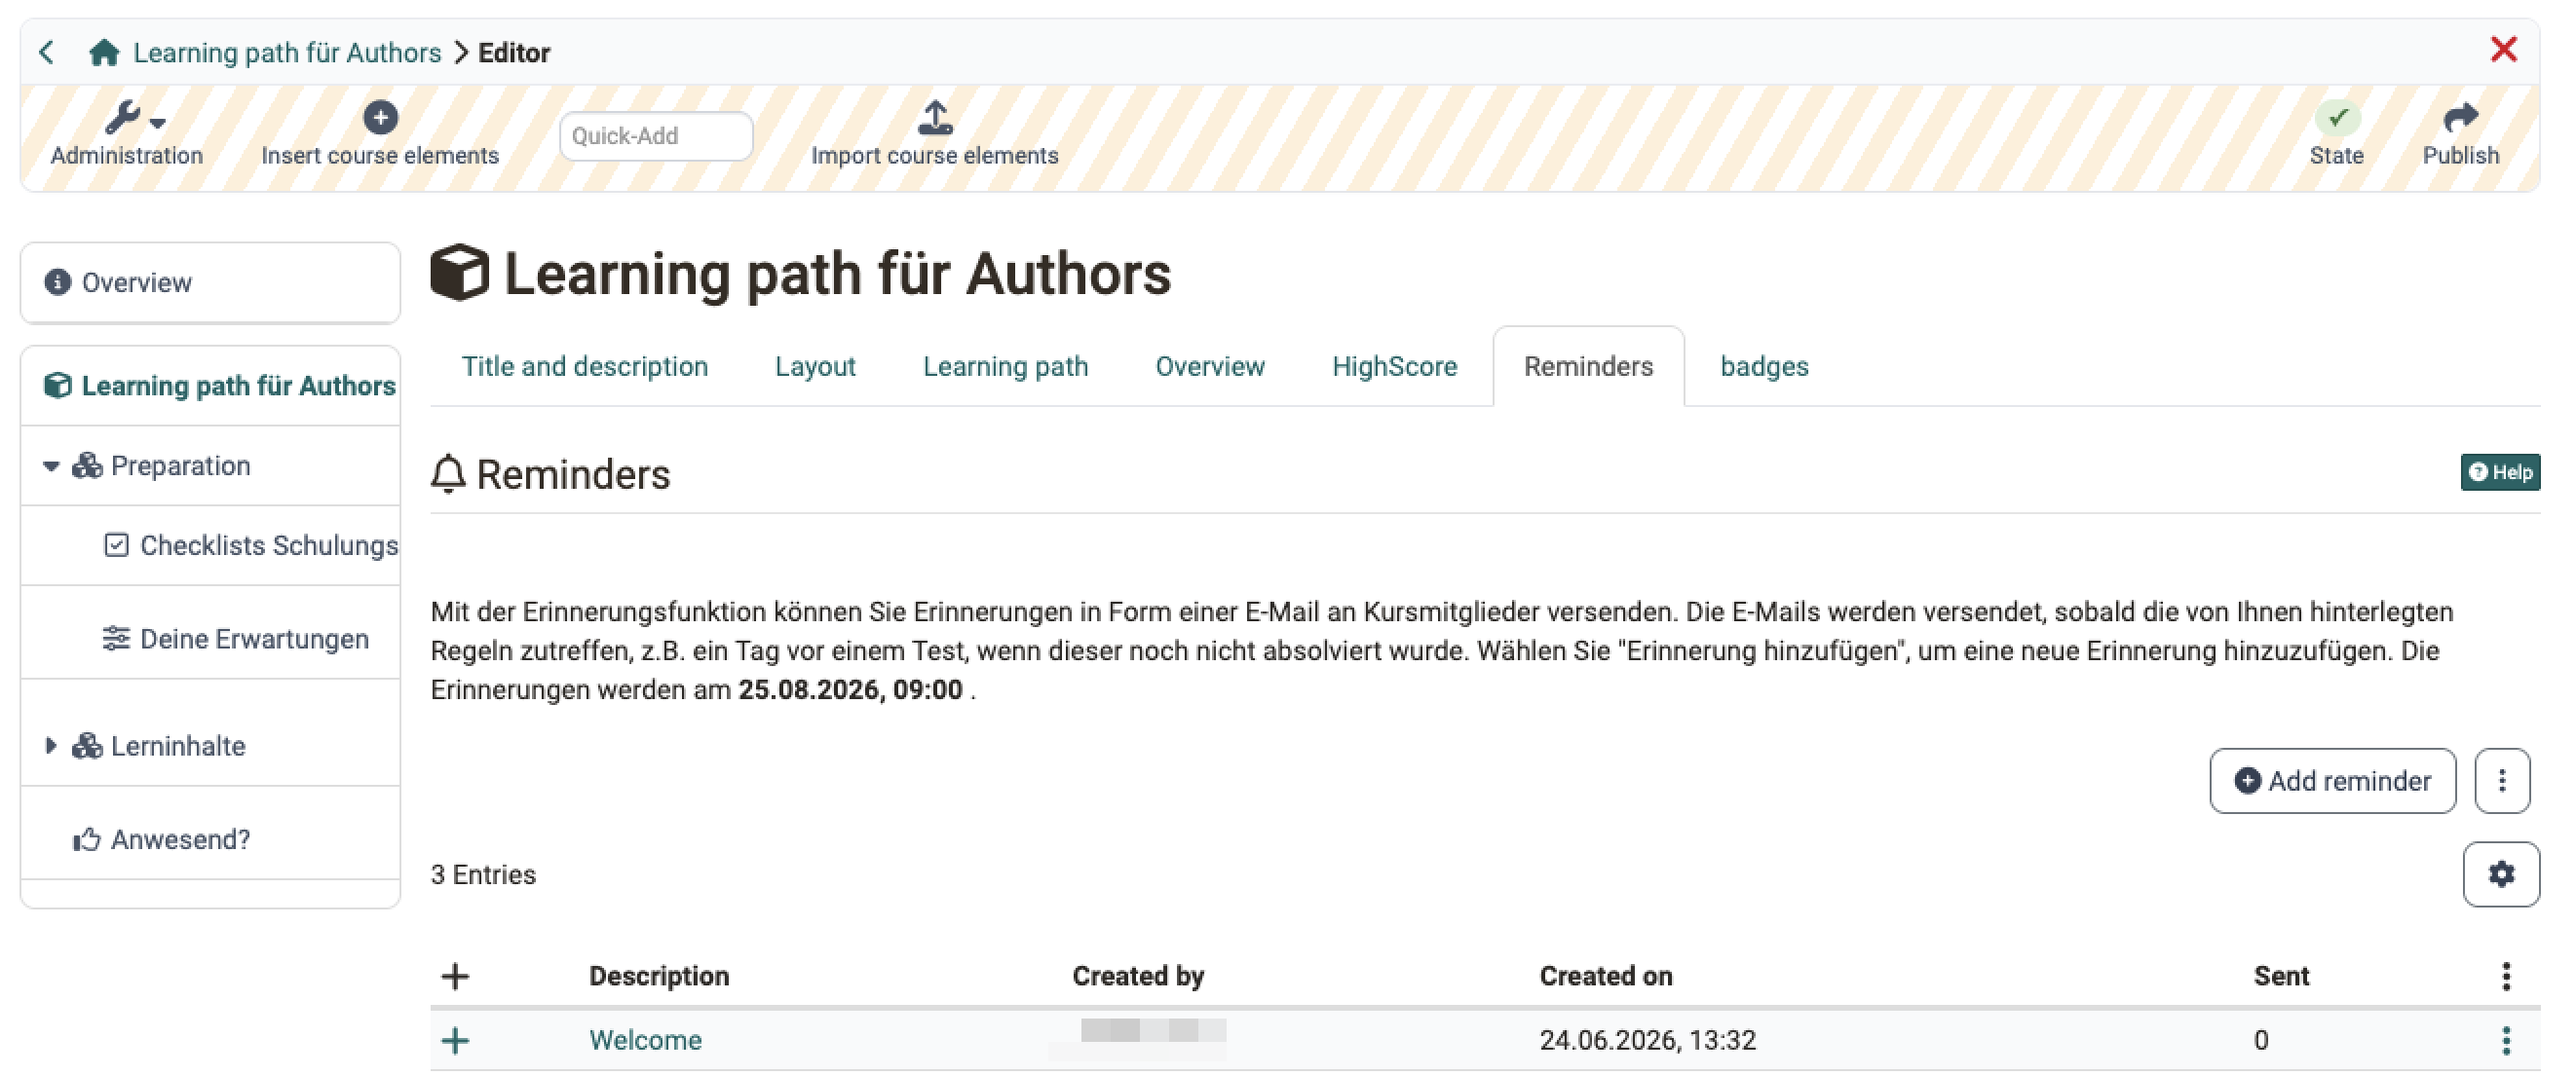
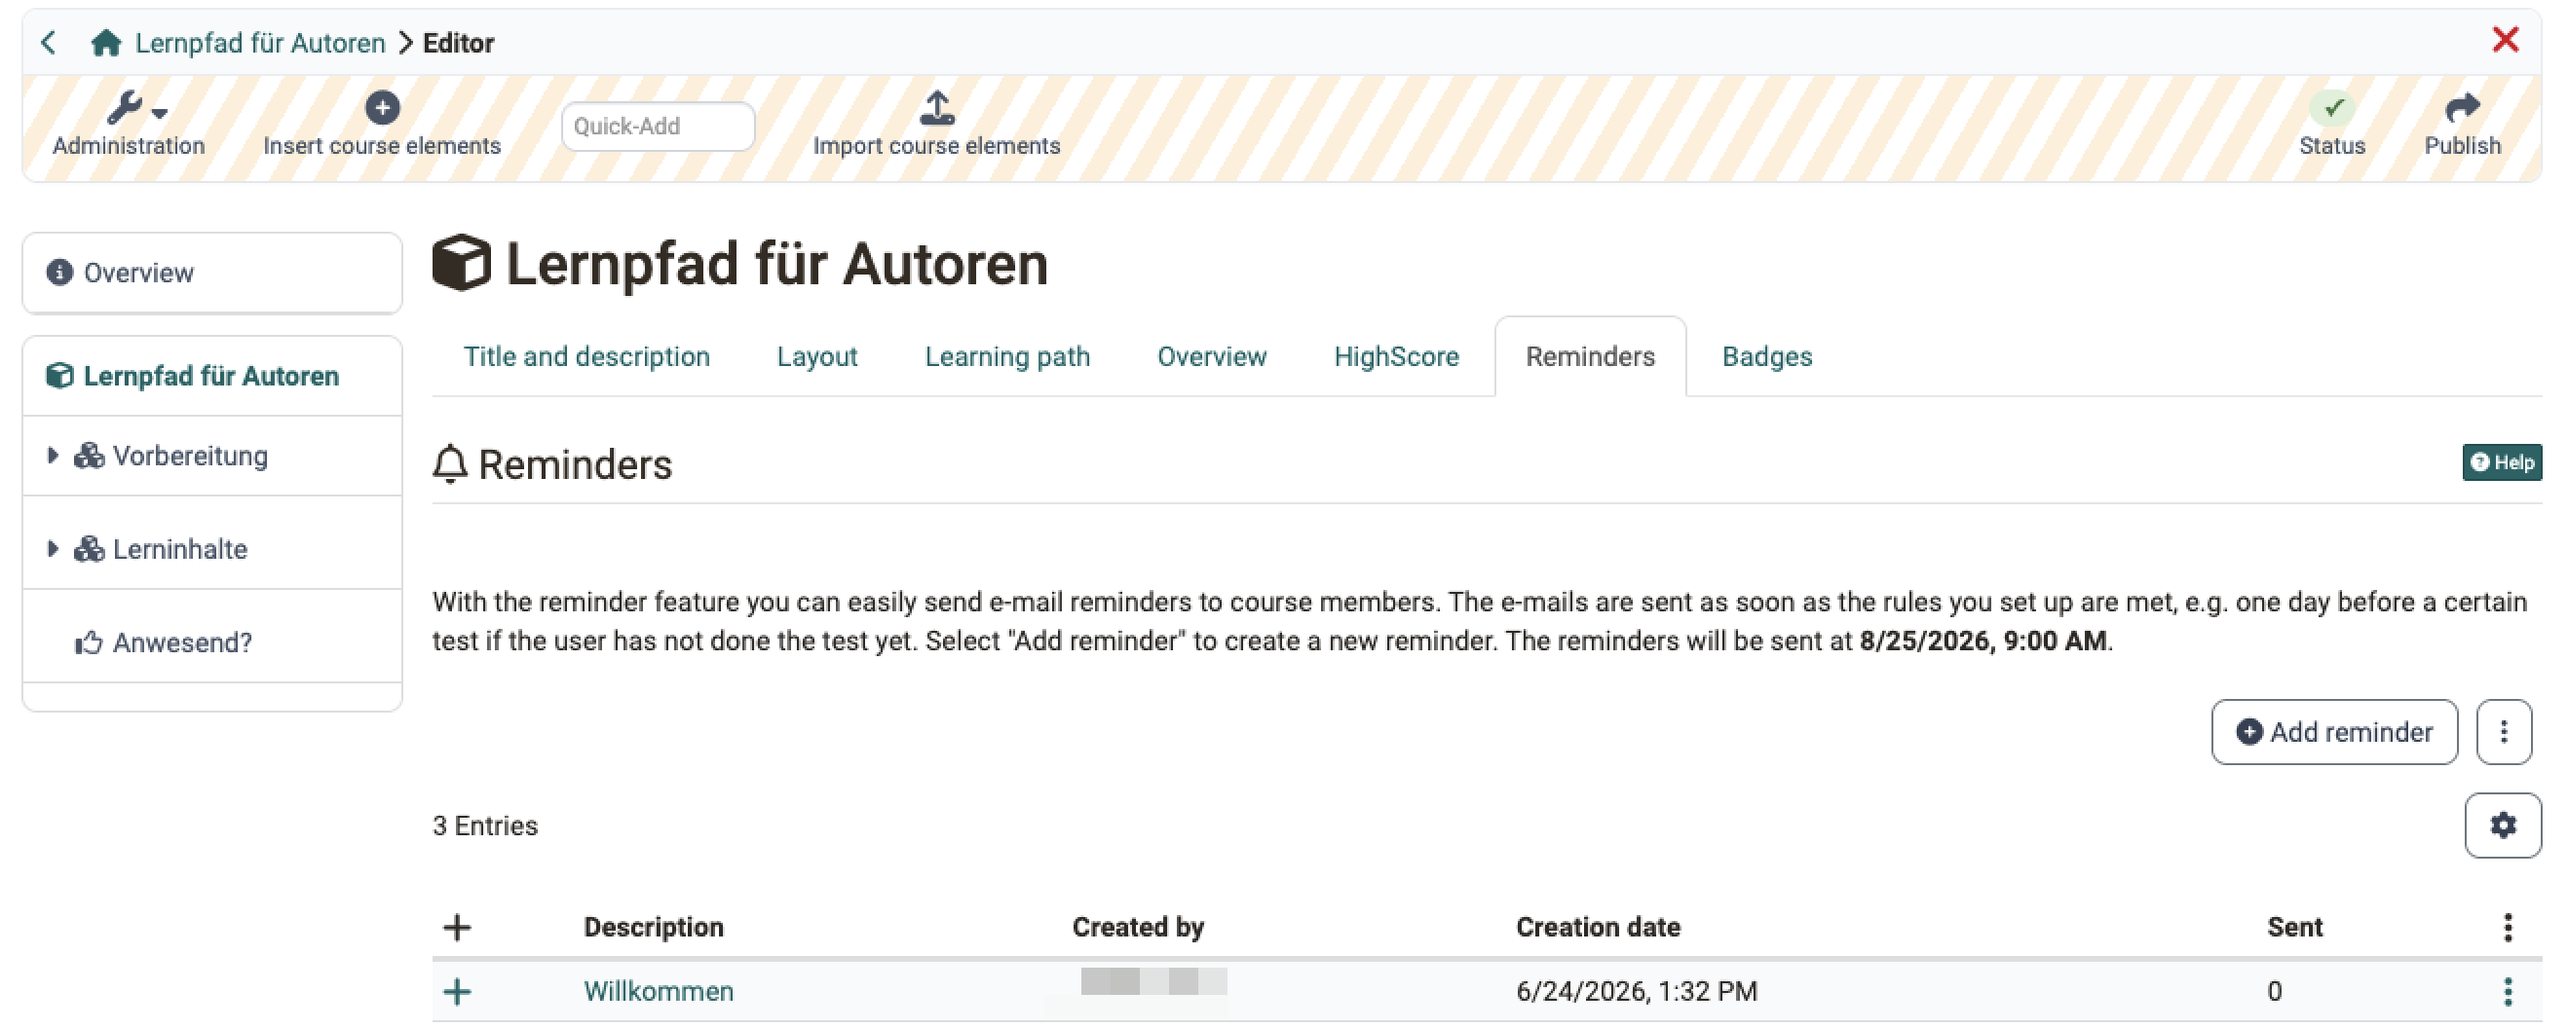
OODOC-533 (EN), Strukturbaustein-Seite nachgezogen.

diff --git a/sites/manual_user/docs/learningresources/Course_Element_Structure.md b/sites/manual_user/docs/learningresources/Course_Element_Structure.md
@@ -1,6 +1,6 @@
 # Course Element "Structure" {: #course_element_structure}
 
-## Profile {: #profile}
+## Profile
 
 Name | Structure
 ---------|----------
@@ -15,21 +15,36 @@ Use this course element to organize and structure your course elements and/or to
 
 The course element Structure offers, among other things, an automatic overview of course elements subordinate to it with their short titles, titles and descriptions. The automatic overview is also linked to an automatically generated performance overview with points, status and link to the performance record, provided these have been activated for the course element or the course in general. 
 
-![Leistungsübersicht Strukturbaustein für Teilnehmende in Lernpfadkursen](assets/Leistungsuebersicht_Struktur_Lernpfad1.png)
+The settings of the course element are made by the owners of the course in the course editor: `Course > Administration > Course editor`. Coaches only reach the course editor if they have been granted the "Course editor" right in the course.
 
-The concrete setting options depend on whether the course element is used in conventional or in learning path courses.
+![Performance overview with the score achieved and a link to the evidence of achievement, below it the content overview with the status of each subordinate course element. Automatic overview of a structure element in a learning path course, participant view.](assets/Leistungsuebersicht_Struktur_Lernpfad1.png){ class="shadow lightbox" }
 
- **Tabs in learning path courses**
+### The chosen course format
 
- **![structure tab learnign path courses](assets/structure_tabs_lpc_en.png)**
+!!! tip "Learning path or not?"
 
- **Tabs in conventional courses**
+    The concrete setting options depend on whether the course element is used in conventional or in learning path courses. The tab bar of the course element tells you which course format you are looking at: A tab "Learning path" identifies the course as a learning path course, the tabs "Visibility", "Access" and "Score" identify it as a conventional course. Here the tabs in comparison:
 
- **![structure tab conventional courses](assets/sturcture_tabs_cc_en.png)**
+**Tabs in learning path courses**
 
-For more information on the general tabs "Title and Description", "Layout" and "Visibility" and "Access", see [here](../learningresources/General_Configuration_of_Course_Elements.md)
+![Five tabs are available: Title and description, Layout, Learning path, Overview and HighScore. Tab bar of the course element Structure in the course editor of a learning path course.](assets/structure_tabs_lpc_en.png){ class="shadow lightbox" }
 
-## Tab Overview {: #overview}
+**Tabs in conventional courses**
+
+![Seven tabs are available: Title and description, Layout, Visibility, Access, Overview, Score and HighScore. Tab bar of the course element Structure in the course editor of a conventional course.](assets/structure_tabs_cc_en.png){ class="shadow lightbox" }
+
+A further special case is the topmost entry in the course editor: the course root node. It is a structure element as well, even though it does not look like one: It carries the symbol of the course :o_icon_o_CourseModule_icon: and not the symbol of the structure element :o_icon_o_st_icon:. It therefore has the same tabs as any other structure element, but it is the only one that carries the tab "[Reminders](../learningresources/Course_Reminders.md)". In addition, deleting and moving are **not** possible for the course root node.
+
+![The topmost entry of the course structure carries the symbol of the course, the subordinate structure elements carry the symbol of the structure element. Course root node in the course editor of a learning path course, tab "Reminders" open.](assets/Struktur_Kurshauptknoten_en.png){ class="shadow lightbox" }
+
+In the course editor, the tabs of the structure element appear in this order:
+
+  1. **Title and description** and **Layout**: identical in both course formats, described under [Course elements in the course editor](../learningresources/General_Configuration_of_Course_Elements.md).
+  2. **Learning path** in the learning path course, or **Visibility** and **Access** in the conventional course. On the tab "Learning path" see [Settings in the learning path course](#learning_path_course_settings), on "Visibility" and "Access" the [general description](../learningresources/General_Configuration_of_Course_Elements.md#access) and for the password protection of the structure element the [Tab Access](#access).
+  3. **Overview**, **Score** only in the conventional course, and **HighScore**: the tabs of the structure element itself, described on this page.
+  4. **Reminders** only on the course root node, **Badges** only if the awarding of badges is activated.
+
+#### Tab Overview {: #overview}
 
 The central settings are made in the "Overview" tab.You can choose between four display modes for the course element "Structure" in the tab Overview and thus generate an automatically generated overview, integrate your own HTML page or simply display the first subordinate course element.
 
@@ -38,45 +53,49 @@ The central settings are made in the "Overview" tab.You can choose between four 
 * **Custom HTML page** allows you to create your own information page instead of the automatically generated overview. Therefore, you can select an HTML page from the storage folder, create a new HTML file or import a suitable file. Text, images etc. can then be added in the OpenOlat HTML editor in a similar way to the HTML page course element. In addition, the "Display content" tab appears and further specific settings for HTML pages can be made.  
 * If you select the radio button **«No overview, activate first visible child node»**, the first visible subordinate course element will be displayed instead of an overview. 
 
-!!! info "Info"
+!!! info "Important"
 
     If you have chosen your own HTML page and this contains links to graphics or other files stored in OpenOlat, you must select the option "Allow links in the entire storage folder" under "Security settings". You can also allow coaches to edit the HTML page without access to the course editor.
 
-## Tab Highscore {: #highscore}
+#### Tab HighScore [:octicons-tag-16:{ title="from Release 11.3 (OO-2133)" }](https://track.frentix.com/issue/OO-2133) {: #highscore}
 
 Here you can activate and configure the high score display. You can display a congratulation title, a winner's podium, a histogram as well as a highscore list. An anonymized representation is also possible here.
 
-Auch hier ist eine anonymisierte Darstellung möglich. It also contains the tab "[Reminders](../learningresources/Course_Reminders.md)" and can neither be deleted nor moved.
+#### Tab Badges {: #badges}
 
-
-## Tab Badges {: #badges}
-
-If the course owner has activated the assignment of badges under **Administration > Settings > Assessment tab > Badges section**, the "Badges" tab is displayed in the course editor for this course element and a specific badge can be created for this course element.
+If the owner of the course has activated the awarding of badges under `Course > Administration > Settings > Assessment` in the section **Badges**, the "Badges" tab is displayed in the course editor for this course element and a specific badge can be created for this course element.
 
 [To the top of the page ^](#course_element_structure)
 
 ---
 
-## Special settings of the course element structure depending on the course type
+## Settings by course format
 
+All tabs described so far behave identically in both course formats. The differences concern only a few tabs: In the learning path course, the standard case, the tab "Learning path" is added. In the conventional course, the tabs "Visibility", "Access" and "Score" are added instead.
 
-### Settings for learning path courses {: #learning_path_course_settings}
+### Settings in the learning path course {: #learning_path_course_settings}
 
-The settings in the tab "Learning path" basically differ from the settings in other course elements. For learning path courses, the course element structure defines whether the sequence of learning steps is sequential (one after the other) or not. There is no specific completion criterion for structure elements.
+The settings in the tab "Learning path" basically differ from the settings of the other course elements in learning path courses. For learning path courses, the course element Structure defines whether the sequence of learning steps of the subordinate course elements is sequential (one after the other) or flexible, without a given order. Under **Execution** you additionally define whether the structure element is "Part of learning path" or "Excluded". There is no specific completion criterion for structure elements.
 
-![Tab Lernpfad für Strukturbausteine](assets/Tab_Lernpfad.png)
+![The sequence of learning steps is set to "No order", the execution to "Part of learning path". Tab Learning path of the course root node in the course editor of a learning path course.](assets/Tab_Lernpfad.png){ class="shadow lightbox" }
 
-Further information on the tab can be found [here](../learningresources/Learning_path_course_Course_editor.md) 
+Further information on the tab can be found [here](../learningresources/Learning_path_course_Course_editor.md).
 
-### Settings for conventional courses {: #conventional_course_settings}
+### Deviations in the conventional course {: #conventional_course_settings}
+
+The conventional course has two tabs on the structure element that do not exist in the learning path course: "Score" and "Access".
 
 #### Tab Score  {: #score}
 
-Conventional courses have the "Points" tab. Here points that were collected in other assessable OpenOlat course elements (e.g. _assessment_, _group/assignment, SCORM 1.2, checklist, LTI page, portfolio task_, _test_ ) be added up and a pass/fail result displayed. The summarized results appear when you click on the course element _Structure_ in the current course.
+!!! note "Can't find the «Score» tab?"
+
+    Then you are working in a learning path course. There you set the assessment of the course in a different place: `Course > Administration > Settings > Assessment`, section "Assessment settings". You find the description under [Course settings - Assessment tab](../learningresources/Course_Settings_Assessment.md#section_assessment_settings).
+
+Conventional courses have the "Score" tab. Here points that were collected in other assessable OpenOlat course elements (e.g. _assessment_, _group/assignment, SCORM 1.2, checklist, LTI page, portfolio task_, _test_ ) be added up and a pass/fail result displayed. The summarized results appear when you click on the course element _Structure_ in the current course.
 
 The following settings are possible:
 
- Calculate **score**: An overview of the assessable elements of your course will appear, which you can take into account when calculating the points. Select either all or specific course elements and OpenOlat adds the respective points. It is also possible to calculate an average value instead of a total. This makes sense, for example, if all course elements have the same maximum number of points. Course elements that do not (yet) contain a rating are not taken into account in the calculation. The calculated value is displayed to the user after the evaluation under "Score".
+ Calculate **score**: An overview of the assessable elements of your course will appear, which you can take into account when calculating the points. Select either all or specific course elements and OpenOlat adds the respective points. It is also possible to calculate an average value instead of a total. This makes sense, for example, if all course elements have the same maximum number of points. Course elements that do not (yet) contain a rating are not taken into account in the calculation. The calculated value is displayed to the participants after the assessment under "Score".
 
  Calculate **passing score:** Pass or fail can refer to a minimum score that you define or to passing selected or all assessable course elements.
  If you select  _«As of minimum score»_ , you can enter the minimum score in another field. This refers to the course elements selected above, i.e. on the course element  _Structure_  a _«Passed»_  is displayed, if the total score is greater or equal to the selected minimum score. 
@@ -85,16 +104,16 @@ The following settings are possible:
 
  Calculate **failed score:**  It is also possible to calculate "Failed".
 
-![structue score tab](assets/structure_score_tab.png)
+![The selection list offers two variants: failed until passed is reached, or failed only after the end date of the course. Setting "Calculate failed score?" in the tab Score of the structure element.](assets/structure_score_tab.png){ class="shadow lightbox" }
 
   * As long as the conditions for passed are not reached, the structure is shown as "Failed". 
   * As long as the conditions for passed are not reached _and_ the end date of the course is reached, the structure is shown as "Failed". If the conditions for "passed" have already been fulfilled before the end of the course, passed is already displayed during the course duration.
 
 If certificates of achievement are to be issued for a course, it is necessary to adjust the settings in the "Score" tab accordingly.
 
-For the user, the performance overview is as follows:
+For participants, the performance overview is as follows:
 
-![Teilnehmer Leistungsübersicht des Strukturbausteins](assets/Leistungsuebersicht_Struktur_herkoemmlich.png)
+![Performance overview with the success status "Passed", the score achieved and a link to the evidence of achievement. View of the structure element in the running conventional course, on the left the course menu with the subordinate course elements.](assets/Leistungsuebersicht_Struktur_herkoemmlich.png){ class="shadow lightbox" }
 
 
 !!! note "Note"
@@ -102,18 +121,39 @@ For the user, the performance overview is as follows:
     In case you wish to utilize an evidence of achievement or be able to check the Passed status in the Coaching tool, you must check the option  **Calculate passing score?**  in the course root node.
 
 
-!!! Tip "Hint"
+!!! tip "Hint"
 
     Use distinct short titles for all of your assessable course elements to be able to clearly distinguish them in the tab "Score."
 
 
+**When the configuration is read-only**
+
+The configuration in the tab "Score" cannot always be changed right away. As soon as assessments exist for the structure element, OpenOlat displays it as read-only. The reason: every change to the assessment rules acts back on all existing assessments. The read-only mode makes sure that you trigger this intervention deliberately and not in passing. [:octicons-tag-16:{ title="from Release 20.3.7 / 21.0.1 (OO-9646)" }](https://track.frentix.com/issue/OO-9646)
+
+OpenOlat tells you so with a message above the configuration: "**Assessments already exist**, so the configuration is displayed as **read-only**. To make changes, you must disable read-only mode - this will cause all existing assessments to be recalculated."
+
+Click on **Enable editing** to lift the read-only mode. The button carries the symbol of an open lock. Afterwards the fields are editable again, and in place of the message the warning appears: "You are currently editing the assessment configuration, even though assessments already exist. Saving and publishing your changes will cause all existing assessments to be **recalculated**. This action **cannot be undone**."
+
+If no assessments exist yet, the tab is directly editable. Message and warning do not appear then.
+
+!!! info "Important"
+
+    The same protection exists in the learning path course, only in a different place and at a different moment. There you set the course assessment under `Course > Administration > Settings > Assessment`. If participants have already been assessed, the form is not read-only: instead OpenOlat opens the dialog "Save settings" when you save, and there you decide between **Apply & recalculate** and **Discard**.
+
+**Recalculation when publishing**
+
+If you publish a change that includes a structure element or the course root node, OpenOlat immediately recalculates the assessments of all affected participants: score, success status and, if a grading is configured, the grade. The evidence of achievement is updated as well.
+
+Coaches therefore see a consistent state directly after publishing. The participants do not have to open the course for this. The recalculation runs in the background, no manual action is needed.
+
+
 #### Tab Access {: #access}
 
-The course element "Structure" and thus its subordinate course elements can be protected with a password.
+The course element "Structure" and thus its subordinate course elements can be protected with a password in conventional courses. To do so, tick the box "Password" and enter the code you want.
 
 !!! warning "Attention"
 
-    On the top course element, which is actually also a structure element, _no_ password can be stored in the "Access" tab.
+    On the course root node, _no_ password can be stored in the "Access" tab.
 
 
   
